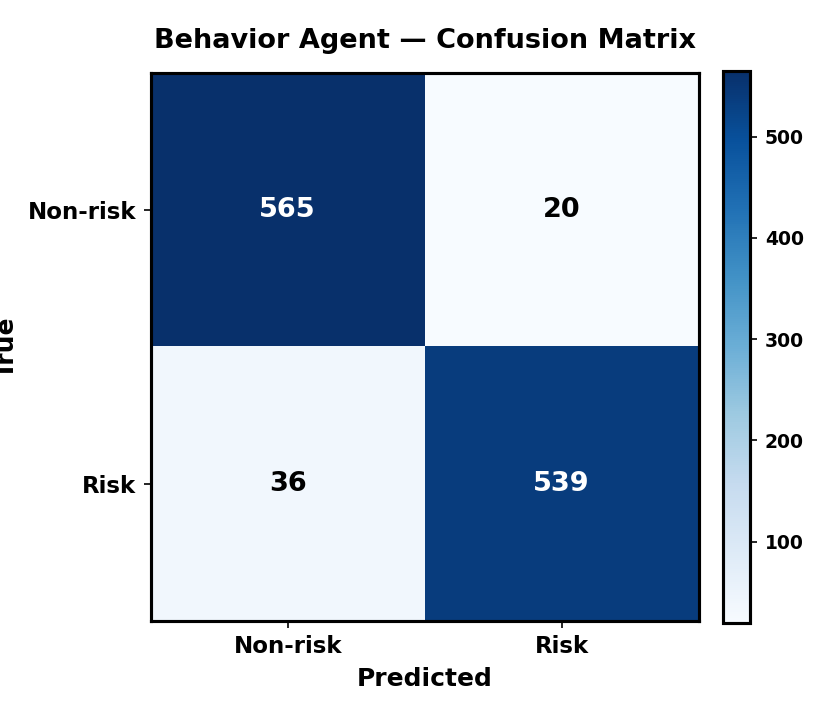
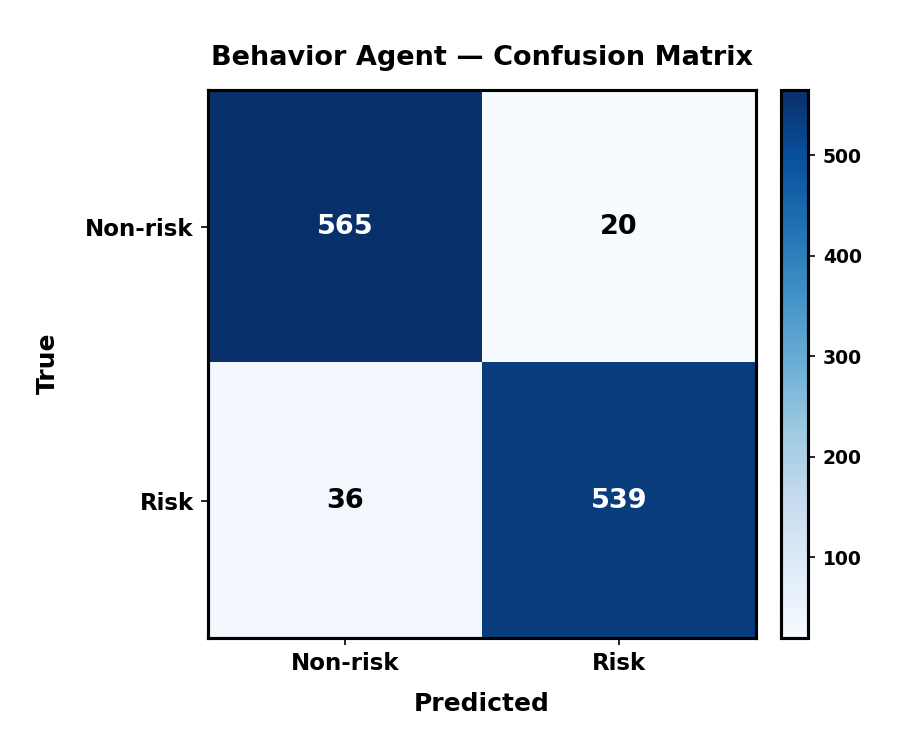
[eval] fix clipped y-axis label on confusion matrix figures

diff --git a/eval/generate_figures_extra.py b/eval/generate_figures_extra.py
@@ -30,13 +30,13 @@ def style_spines(ax):
 
 def fig_confusion_matrix(y_true, y_pred, title, filename):
     cm = confusion_matrix(y_true, y_pred)
-    fig, ax = plt.subplots(figsize=(5.5, 4.8))
+    fig, ax = plt.subplots(figsize=(6, 5))
     im = ax.imshow(cm, cmap="Blues")
     ax.set_xticks([0, 1]); ax.set_yticks([0, 1])
     ax.set_xticklabels(["Non-risk", "Risk"], fontsize=11, fontweight="bold")
     ax.set_yticklabels(["Non-risk", "Risk"], fontsize=11, fontweight="bold")
-    ax.set_xlabel("Predicted", fontsize=12, fontweight="bold")
-    ax.set_ylabel("True", fontsize=12, fontweight="bold")
+    ax.set_xlabel("Predicted", fontsize=12, fontweight="bold", labelpad=8)
+    ax.set_ylabel("True", fontsize=12, fontweight="bold", labelpad=12)
     ax.set_title(title, fontsize=13, fontweight="bold", pad=12)
     for i in range(2):
         for j in range(2):
@@ -48,11 +48,10 @@ def fig_confusion_matrix(y_true, y_pred, title, filename):
     for label in cbar.ax.get_yticklabels():
         label.set_fontweight("bold")
     style_spines(ax)
-    plt.tight_layout()
+    fig.subplots_adjust(left=0.2, bottom=0.15)
     plt.savefig(f"{OUT_DIR}/{filename}", dpi=150)
     plt.close()
     print(f"Saved {filename}")
-
 
 def fig_roc_curve(y_true, y_score, title, filename):
     fpr, tpr, _ = roc_curve(y_true, y_score)
